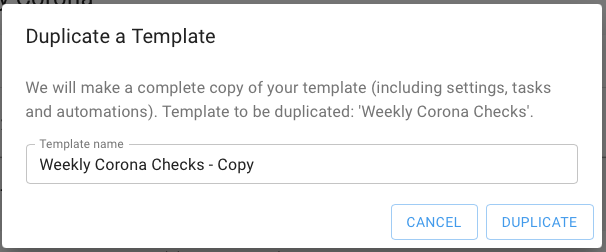
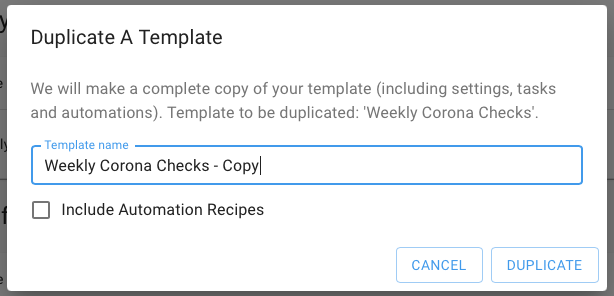
duplicate template to include recipe option

Changed region(s): [[0.0, 0.0, 1.0, 1.0]]

diff --git a/docs/templates/templates.md b/docs/templates/templates.md
@@ -113,7 +113,9 @@ The Duplicate A template dialog will open:
 
 ![](/assets/images/templates/templates-duplicate-dialog.png)
 
-You can rename the new template and click Duplicate to make the copy. The newly created template will be in the same folder as the original template.
+You can rename the new template as well as decide if you want to duplicate any existing template recieps. Click Duplicate to make the copy. 
+
+The newly created template will be in the same folder as the original template.
 
 ## Favorite a Template
 You can mark a template as a Favorite using the Star:
